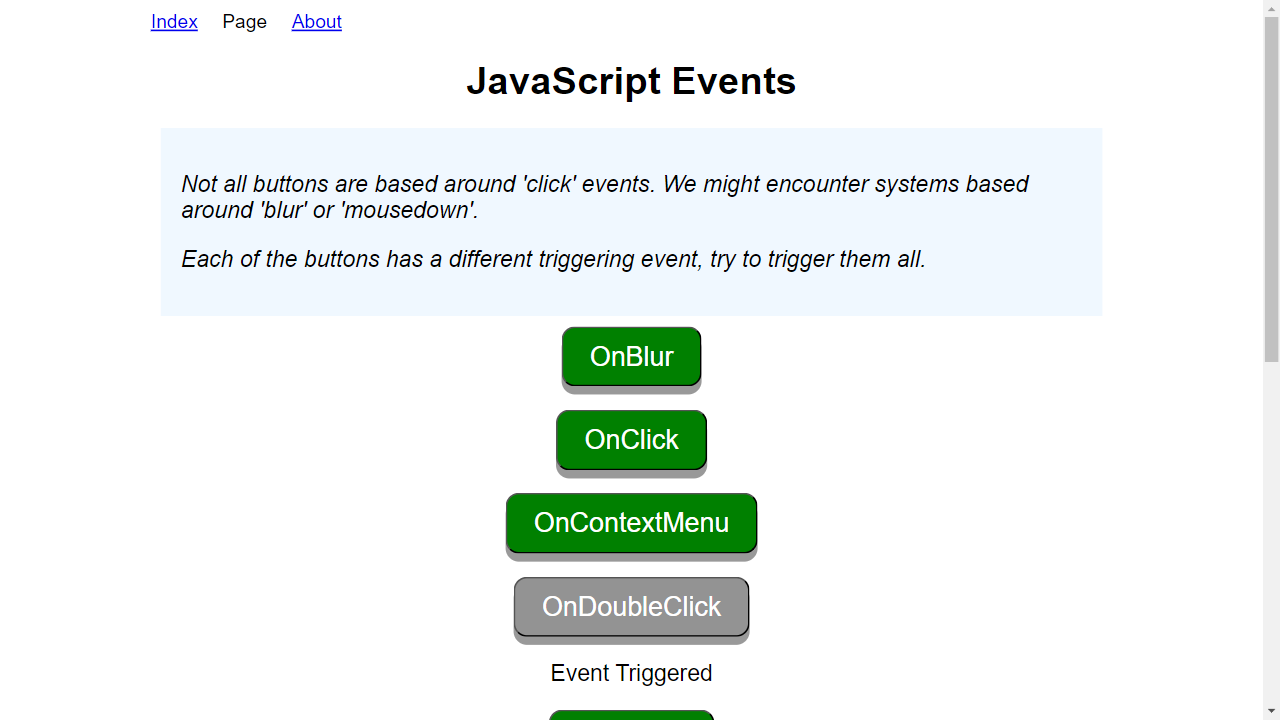
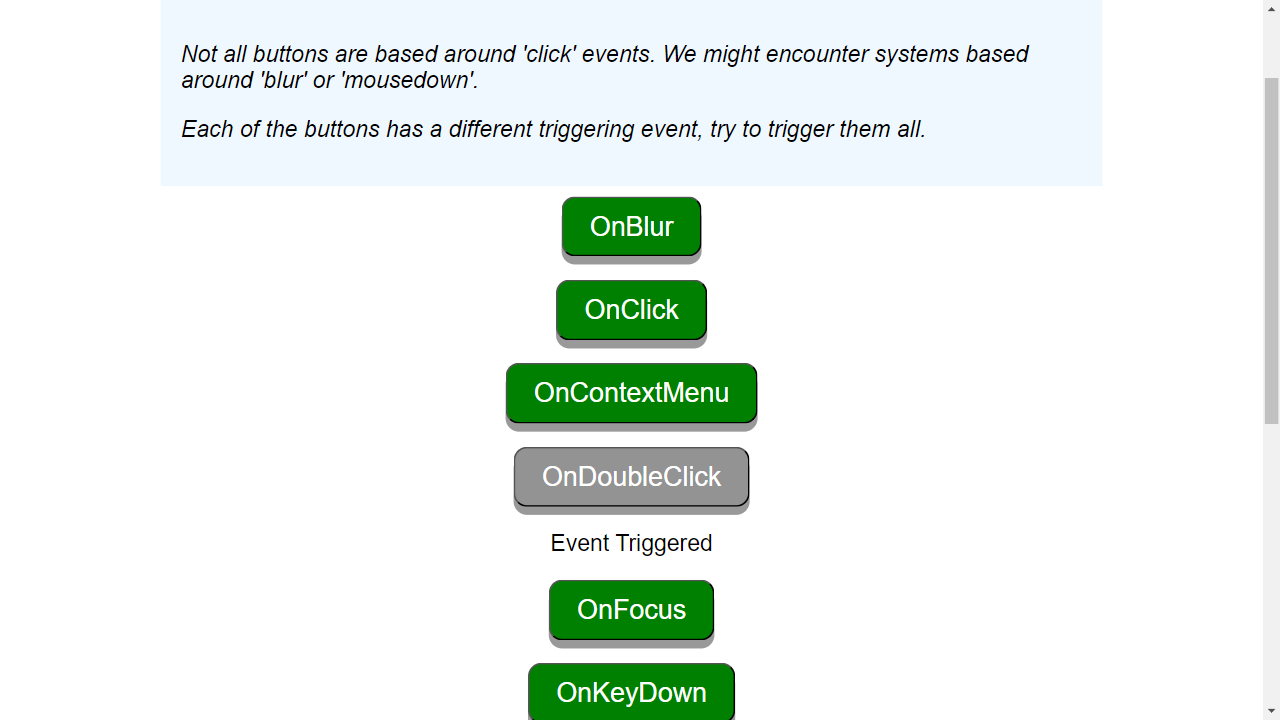
Playwright

diff --git a/testpages/tests/tests_events.py b/testpages/tests/tests_events.py
@@ -80,3 +80,27 @@ def event_on_double_click(page: Page):
         page.screenshot(path="screenshots/event_on_double_click.png")
 
     return event_on_double_click_func
+
+
+@pytest.fixture
+def event_on_focus(page: Page):
+    def event_on_focus_func():
+        page.goto(data_page_events)
+        page.wait_for_timeout(1000)
+        page.click(locator_on_focus)
+        page.wait_for_timeout(1000)
+        page.screenshot(path="screenshots/event_on_focus.png")
+
+    return event_on_focus_func
+
+
+@pytest.fixture
+def event_on_key_down(page: Page):
+    def event_on_key_down_func():
+        page.goto(data_page_events)
+        page.wait_for_timeout(1000)
+        page.click(locator_on_key_down, button="middle")
+        page.wait_for_timeout(1000)
+        page.screenshot(path="screenshots/event_on_key_down.png")
+
+    return event_on_key_down_func

diff --git a/testpages/run/run_tests/run_events.py b/testpages/run/run_tests/run_events.py
@@ -19,3 +19,12 @@ def test_event_on_context_menu(page: Page, event_on_context_menu):
 @pytest.mark.smoke
 def test_event_on_double_click(page: Page, event_on_double_click):
     event_on_double_click()
+
+
+@pytest.mark.smoke
+def test_event_on_focus(page: Page, event_on_focus):
+    event_on_focus()
+
+    @pytest.mark.smoke
+    def test_event_on_key_down(page: Page, event_on_key_down):
+        event_on_key_down()
